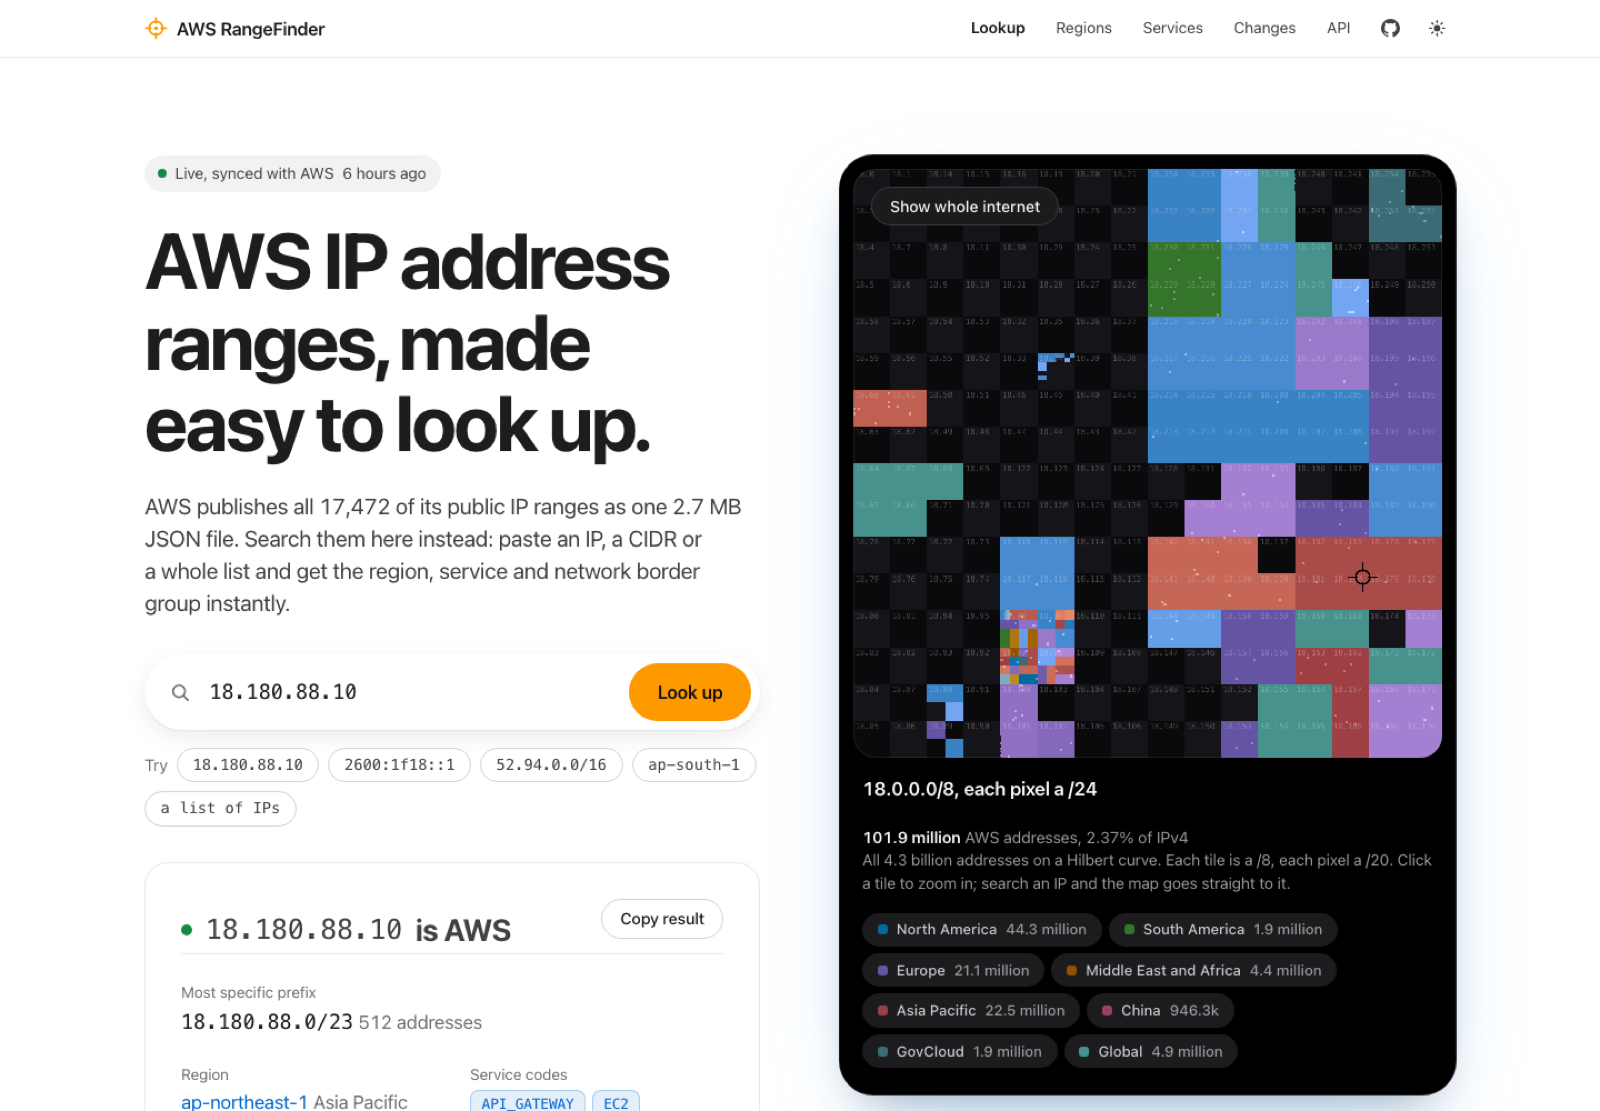
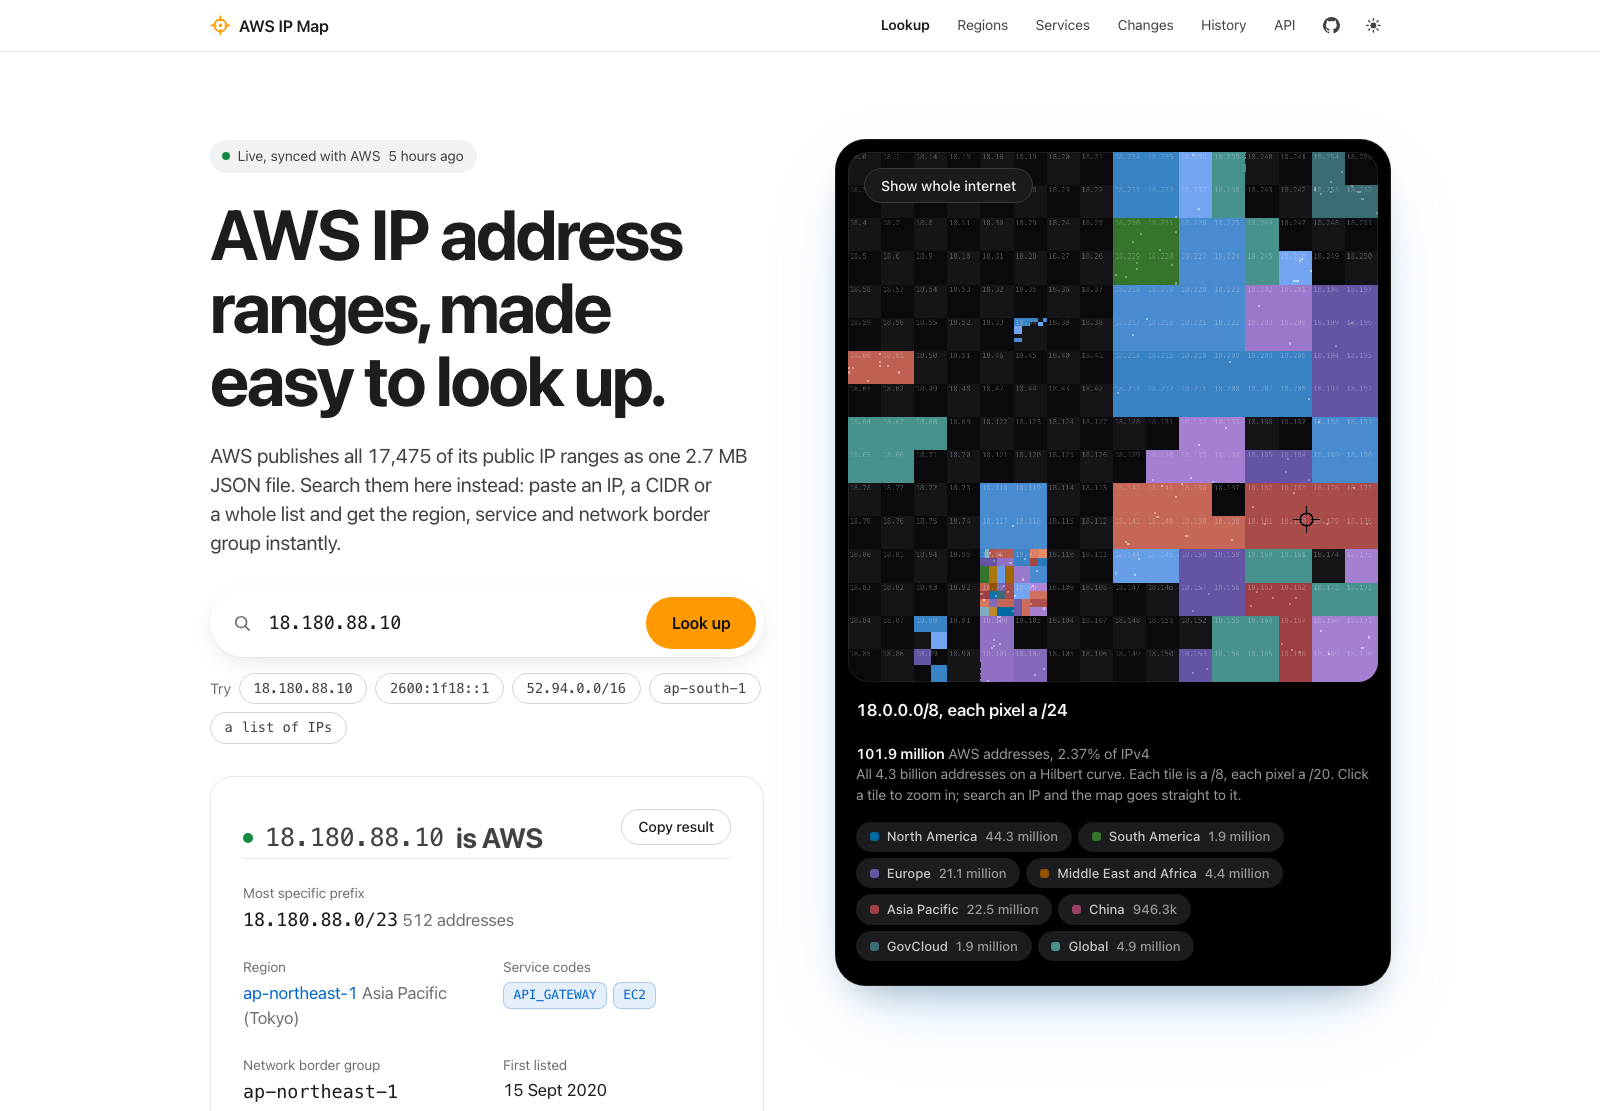
Rename to AWS IP Map: base path /aws-ip-map/, repo manishh-13/aws-ip-map, new social card and README screenshot

diff --git a/tools/og-card.html b/tools/og-card.html
@@ -14,7 +14,7 @@ background:#1c1c1e;box-shadow:0 0 0 1px #3a3a3c}
 .slab{}
 .map{width:470px;height:470px;border-radius:22px;background:#0a0a0c url(../dist/map.png) center/cover;image-rendering:pixelated;box-shadow:0 0 0 1px #2c2c2e,0 30px 80px -30px rgba(41,151,255,.35)}
 </style></head><body>
-<div class="wrap"><div><div class="k"><svg viewBox="0 0 24 24"><circle cx="12" cy="12" r="7" fill="none" stroke="currentColor" stroke-width="2"/><path d="M12 1.5v5M12 17.5v5M1.5 12h5M17.5 12h5" stroke="currentColor" stroke-width="2" stroke-linecap="round"/><circle cx="12" cy="12" r="2" fill="currentColor"/></svg>AWS RangeFinder</div>
+<div class="wrap"><div><div class="k"><svg viewBox="0 0 24 24"><circle cx="12" cy="12" r="7" fill="none" stroke="currentColor" stroke-width="2"/><path d="M12 1.5v5M12 17.5v5M1.5 12h5M17.5 12h5" stroke="currentColor" stroke-width="2" stroke-linecap="round"/><circle cx="12" cy="12" r="2" fill="currentColor"/></svg>AWS IP Map</div>
 <h1>AWS IP address ranges, made easy to look up.</h1>
 <p>Search every AWS public IP range by IP, CIDR, region or service.</p>
 <div class="pill">18.180.88.10<b>Look up</b></div></div>

diff --git a/src/styles.css b/src/styles.css
@@ -1,4 +1,4 @@
-/* AWS RangeFinder
+/* AWS IP Map
    Product-site language shared by Google, Apple and Airbnb: a centred search-first hero, full-bleed bands
    (white, light grey, one black showcase band for the map), big confident headlines, pill controls,
    real elevation only where something is interactive. Orange is the action colour (Amazon convention), blue is links. */

diff --git a/README.md b/README.md
@@ -1,10 +1,10 @@
-# AWS RangeFinder: AWS IP address ranges, made easy to look up
+# AWS IP Map: AWS IP address ranges, made easy to look up
 
-**Live site: https://manishh-13.github.io/aws-rangefinder/**
+**Live site: https://manishh-13.github.io/aws-ip-map/**
 
-AWS publishes every public IP range it uses as one 2.7 MB JSON file, [`ip-ranges.json`](https://ip-ranges.amazonaws.com/ip-ranges.json). AWS RangeFinder turns it into a fast, searchable site. Paste an IP to see whether it belongs to AWS, which region and service it's in, and how long it has been there. Browse every region and service, build allowlists in the format you need, and see exactly what changed each time AWS republishes the file.
+AWS publishes every public IP range it uses as one 2.7 MB JSON file, [`ip-ranges.json`](https://ip-ranges.amazonaws.com/ip-ranges.json). AWS IP Map turns it into a fast, searchable site. Paste an IP to see whether it belongs to AWS, which region and service it's in, and how long it has been there. Browse every region and service, build allowlists in the format you need, and see exactly what changed each time AWS republishes the file.
 
-![AWS RangeFinder: IP lookup next to a Hilbert-curve map of the IPv4 internet](docs/screenshot.png)
+![AWS IP Map: IP lookup next to a Hilbert-curve map of the IPv4 internet](docs/screenshot.png)
 
 ## What it does
 
@@ -16,12 +16,12 @@ AWS publishes every public IP range it uses as one 2.7 MB JSON file, [`ip-ranges
 - **Plain-text API.** Stable URLs for every region, service and region-service pair:
 
 ```sh
-curl -s https://manishh-13.github.io/aws-rangefinder/services/cloudfront-origin-facing/ipv4.txt
-curl -s https://manishh-13.github.io/aws-rangefinder/regions/ap-south-1/s3/ipv4.txt
-curl -s https://manishh-13.github.io/aws-rangefinder/ranges.csv
+curl -s https://manishh-13.github.io/aws-ip-map/services/cloudfront-origin-facing/ipv4.txt
+curl -s https://manishh-13.github.io/aws-ip-map/regions/ap-south-1/s3/ipv4.txt
+curl -s https://manishh-13.github.io/aws-ip-map/ranges.csv
 ```
 
-See [/api/](https://manishh-13.github.io/aws-rangefinder/api/) for the full list.
+See [/api/](https://manishh-13.github.io/aws-ip-map/api/) for the full list.
 
 ## How it works
 
@@ -45,7 +45,7 @@ Requires Node 20 or newer.
 ```sh
 npm run update      # fetch the live ip-ranges.json into data/
 npm run history     # optional: rebuild the full history from joetek, seligman and the Internet Archive (a few minutes)
-npm run dev         # build and serve at http://localhost:4173/aws-rangefinder/
+npm run dev         # build and serve at http://localhost:4173/aws-ip-map/
 npm test
 ```
 
